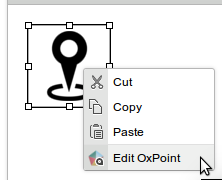
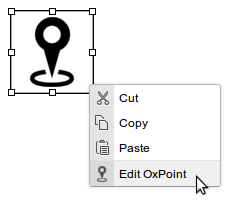
Fix oxpoints images

Changed region(s): [[0.027, 0.0, 1.0, 1.0]]

diff --git a/oxpoints.html b/oxpoints.html
@@ -7,7 +7,7 @@
   <ol>
     <li>
       <p>Click on the OxPoints icon.</p>
-      <p><img src="images/oxpoints/show-icon.png"/></p>
+      <p class="icon"><img src="https://rawgit.com/ox-it/wl-ck-plugins/master/oxpoints/icons/oxpoints.png"/></p>
     </li>
       <p>
         A dialog will appear with several available settings.
@@ -41,7 +41,7 @@
     </ul>
     <li>
       <p>Click OK to embed the OxPoint at the current cursor position.</p>
-      <p><img src="images/oxpoints/embed.png"/></p>
+      <p class="placeholder"><img src="https://rawgit.com/ox-it/wl-ck-plugins/master/oxpoints/icons/placeholder.png"/></p>
     </li>
     <li>
       <p>
